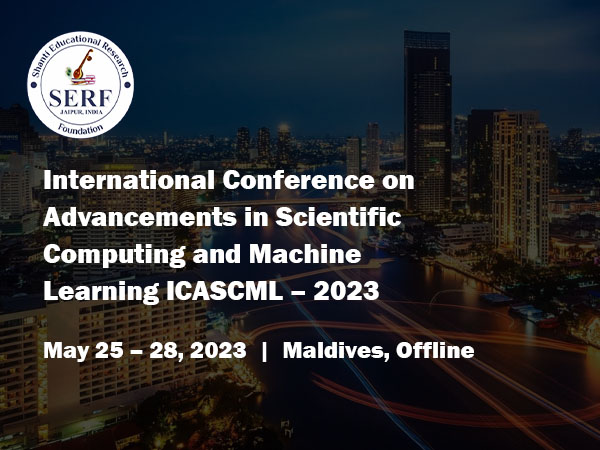
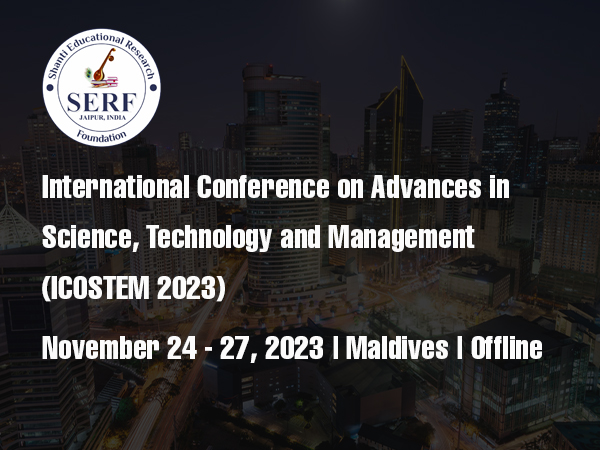
changes

diff --git a/index.php b/index.php
@@ -448,23 +448,23 @@
                         <div class="tab-pane fade show active" id="upcoming_event">
                            <div class="row align-items-center justify-content-center clearfix">
                               <div class="col-sm-12 col-md-6 col-lg-4">
-                                 <a href="#" rel="noopener noreferrer">
+                                 <a href="https://www.fircons.com/" target="_blank" rel="noopener noreferrer">
                                     <div class="event_box">
                                        <div class="events_img">
                                           <img src="assets/img/events/maldives-img.jpg" alt="" srcset="">
                                        </div>
                                        <div class="event_content">
                                           <div class="event_date">
-                                             <span>May 25-28, 2023 | Maldives Offline</span>
+                                             <span>November 24 - 27, 2023 | Maldives | Offline</span>
                                           </div>
                                           <div class="event_name">
-                                             <span>International Conference on Advancements in Scientific Computing and Machine Learning ICASCML-2023 </span>
+                                             <span>International Conference on Advances in Science, Technology and Management  <div>(ICOSTEM 2023)</div> </span>
                                           </div>
                                        </div>
                                     </div>
                                  </a>
                               </div>
-                              <div class="col-sm-12 col-md-6 col-lg-4">
+                              <!--<div class="col-sm-12 col-md-6 col-lg-4">
                                  <a href="#" rel="noopener noreferrer">
                                     <div class="event_box">
                                        <div class="events_img">
@@ -480,7 +480,7 @@
                                        </div>
                                     </div>
                                  </a>
-                              </div>
+                              </div>-->
                            </div>
                         </div>
                         <div class="tab-pane fade" id="past_events">

diff --git a/management-team.php b/management-team.php
@@ -52,7 +52,7 @@
                                  <img src="assets/img/team/dorota-pro.webp">
                               </div>
                               <h3 class="title">Prof. (Dr.) Dorota Jelonek</h3>
-                              <span class="post">Faculty Of Management At The Czestochowa University Of Technology</span>
+                              <span class="post">Faculty Of Management <span class="d-block">Czestochowa University Of Technology</span></span>
                               <span class="d-block country_name">Poland</span>                               
                            </div>
                         </div>
@@ -237,7 +237,7 @@
                                  <img src="assets/img/team/ilona.webp">
                               </div>
                               <h3 class="title">Prof.(Dr.) Ilona Paweloszek (Member, Planning)</h3>
-                              <span class="post">Faculty Of Management At The Czestochowa University Of Technology, </span>
+                              <span class="post">Faculty Of Management <span class="d-block">Czestochowa University Of Technology</span> </span>
                               <span class="d-block country_name">Poland</span>                               
                            </div>
                         </div>
@@ -269,6 +269,16 @@
                               <h3 class="title">Prof.(Dr.) Mahesh Joshi</h3>
                               <span class="post">Manipal University </span>
                               <span class="d-block country_name">(India), Jaipur  </span>                               
+                           </div>
+                        </div>
+                         <div class="col-sm-12 col-md-3 col-lg-3">
+                           <div class="our-team mt-3">
+                              <div class="pic">
+                                 <img src="assets/img/team/r-k-tailor.webp">
+                              </div>
+                              <h3 class="title">Prof. (Dr.) R. K. Tailor (Member Planning)</h3>
+                              <span class="post">Manipal University </span>
+                              <span class="d-block country_name"> Jaipur, (India)  </span>                               
                            </div>
                         </div>
                      </div>

diff --git a/footer.php b/footer.php
@@ -50,9 +50,9 @@
                         <h3>Enquiry Us</h3>
                      </div>
                      <div class="footer_link_enquiry">
-                        <li><b>Prof.(Dr.) Narendra Kumar</b></li>
+                        <li><b>Prof. (Dr.) Ilona Pawełoszek</b></li>
                         <li>Executive Editor, Member Planning SERF International Journals</li>
-                        <li><b>Email:</b> <a href="mailto:info@SERFinternationaljournal.org">info@SERFinternationaljournal.org</a> </li>
+                        <li><b>Email:</b> <a href="mailto:serfjaipur@gmail.com">serfjaipur@gmail.com</a> </li>
                         <li><b>Phone:</b> <a href="telto:+91-8854005488">+91-8854005488</a> </li>
                      </div>
                   </div>

diff --git a/header.php b/header.php
@@ -24,7 +24,7 @@
                         <ul>
                            <li>
                               <i class="flaticon-email"></i>
-                              <a href="mailto:info@SERFinternationaljournal.org">info@SERFinternationaljournal.org</a>
+                              <a href="mailto:serfjaipur@gmail.com">serfjaipur@gmail.com</a>
                            </li>
                            <li>
                               <i class="flaticon-call"></i>
